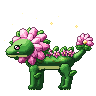
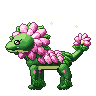
Estudio: Robledor con silueta de coloso (gorila de corteza) y Floraxia con capa de pétalos
Claude-Session: https://claude.ai/code/session_01CbjX1Jp4CqY9crVcrZtYX4

Changed region(s): [[0.0312, 0.2188, 1.0, 0.9375], [0.2812, 0.9062, 0.3125, 0.9375]]

diff --git a/estudio/robledor/robledor.py b/estudio/robledor/robledor.py
@@ -1,8 +1,9 @@
 """Robledor (planta/roca): forma final de Hojardo por el camino del combate cercano.
 «Un coloso de corteza y piedra. Se planta firme en el suelo y golpea con la fuerza de un roble centenario.»
-En dos patas, enorme: piernas como troncos con raíces que se agarran al suelo, torso acorazado de corteza
-(con vetas) y placas de piedra con musgo, brazos fuertes con puños de piedra, la cabeza de geco de la familia
-(verde, con la cresta de hojas) y, en la espalda, el brote de Semillín convertido en un árbol."""
+Un coloso con silueta de gorila de corteza: enorme masa de hombros, espalda encorvada, brazos gigantes que
+llegan al suelo y se apoyan en puños de piedra (plantado firme), piernas cortas como troncos con raíces,
+rocas con musgo y hongos en los hombros, enredaderas que cuelgan, la cabeza de geco de la familia baja entre
+los hombros y, en la espalda, el brote de Semillín convertido en un bosquecito."""
 import math, os, sys
 sys.path.insert(0, os.path.join(os.path.dirname(os.path.abspath(__file__)), '..'))
 import numpy as np
@@ -46,58 +47,67 @@ def stone(moss_top=None):
 
 def build(P):
     motor.tamano(96)
-    c = Lienzo(RAMP, P, S=0.98 * 1.2, OX=40, OY=75, CX=46, CY=90, outline='#0e0806', mid=MID, span=SPAN)
+    c = Lienzo(RAMP, P, S=1.0 * 1.2, OX=40, OY=75, CX=47, CY=90, outline='#0e0806', mid=MID, span=SPAN)
     f = P['fl']; sw = math.sin(f * 1.3) * 0.8
-    # ---- árbol en la espalda (el brote de Semillín creció) ----
-    c.local(rot=sw * 0.02, piv=(50, 34))
-    c.parte(c.caps([(49, 34), (51, 24), (53, 15)], [3.0, 2.4, 1.8]) | c.caps([(51.5, 22), (57, 17)], [1.4, 0.8]), bark(0.2, 2.6), R=2.5)
-    for i, (x, y, rx, ry) in enumerate([(53, 10, 7, 5.5), (46.5, 13, 5.5, 4.5), (59.5, 14, 5.5, 4.5), (52, 5.5, 5, 4)]):
-        c.parte(c.ell(x + sw * 0.3, y, rx, ry), lambda X, Y: np.where(((X * 0.9 + Y * 1.3) % 3.6) < 0.6, 'vein', 'leaf').astype(object),
-                R=4, bias=0.05 if i % 2 else -0.04, outline='#123a14')
+    leafy = lambda X, Y: np.where(((X * 0.9 + Y * 1.3) % 3.6) < 0.6, 'vein', 'leaf').astype(object)
+    # ---- bosquecito en la espalda ----
+    c.local(rot=sw * 0.015, piv=(47, 26))
+    c.parte(c.caps([(46, 27), (47.5, 19), (49, 13)], [3.4, 2.6, 2.0]) | c.caps([(47.5, 17), (54, 12.5)], [1.6, 0.9]) | c.caps([(47, 20), (41, 15)], [1.4, 0.8]),
+            bark(0.2, 2.6), R=2.5)
+    for i, (x, y, rx, ry) in enumerate([(49, 10, 8, 5.5), (40, 13, 6, 4.5), (57.5, 12.5, 6.5, 4.8), (45, 6.5, 5.5, 3.6), (54, 7, 5, 3.4), (63, 16.5, 4.5, 3.6)]):
+        c.parte(c.ell(x + sw * 0.3, y, rx, ry), leafy, R=4, bias=0.05 if i % 2 else -0.04, outline='#123a14')
     c.local()
-    # ---- pierna lejana: tronco con raíces ----
-    legF = c.caps([(47, 53), (50, 62), (50.5, 69.5)], [5.6, 4.8, 4.8])
-    for dx, dy in [(-4.5, 2.5), (-1.5, 3.2), (2.5, 3), (5, 2)]:
-        legF |= c.caps([(50.5, 69.5), (50.5 + dx, 72 + dy * 0.4)], [2.2, 1.0])
+    # ---- pierna lejana: tronco corto con raíces ----
+    legF = c.caps([(49, 57), (51, 64), (51, 69.5)], [6, 5.4, 5.4])
+    for dx, dy in [(-4.5, 2.5), (-1.5, 3.2), (2.5, 3), (5.5, 2)]:
+        legF |= c.caps([(51, 69.5), (51 + dx, 72 + dy * 0.4)], [2.2, 1.0])
     c.parte(legF, bark(0.1), R=4, bias=-0.3, far=True)
-    # ---- brazo lejano ----
-    c.parte(c.caps([(45, 30), (47, 40), (43, 48)], [4.5, 4, 3.6]), 'skin', R=3.5, bias=-0.3, far=True)
-    c.parte(c.ell(42, 50, 4.4, 4.2), stone(), R=3, bias=-0.3, far=True, outline='#0e0e10')
-    # ---- torso enorme de corteza ----
-    torso = c.ell(41, 39, 15, 13) | c.ell(42, 50, 13, 7)
-    c.parte(torso, bark(0.05, 3.4, moss_top=28), R=10)
-    # placa de piedra en el pecho, con musgo arriba
-    c.parte(c.poly([(28, 36), (33, 32.5), (38.5, 33.5), (40, 40), (37, 46.5), (31, 47), (27.5, 42)]), stone(moss_top=34.5), R=4, outline='#0e0e10')
+    # ---- brazo lejano: llega al suelo ----
+    c.parte(c.caps([(45, 33), (48, 45), (46, 56)], [6, 5.2, 4.8]), bark(0.4, 3.0), R=4, bias=-0.15, far=True)
+    c.parte(c.caps([(46.5, 56), (45.5, 63.5)], [4.6, 4.8]) | c.ell(45, 67, 5.0, 4.2), stone(), R=3.5, bias=-0.3, far=True, outline='#0e0e10')
+    # ---- torso: gran masa de hombros, encorvado ----
+    torso = c.ell(38, 37, 16, 13) | c.ell(43, 51, 11.5, 8.5) | c.ell(30, 40, 9, 10)
+    c.parte(torso, bark(0.05, 3.4, moss_top=27.5), R=11, bias=-0.12)
     # ---- pierna cercana ----
-    legN = c.caps([(36, 54), (33, 62.5), (32.5, 69.5)], [6.2, 5.2, 5.2])
-    for dx, dy in [(-5.5, 2.5), (-2.5, 3.4), (1.5, 3.2), (4.5, 2.2)]:
-        legN |= c.caps([(32.5, 69.5), (32.5 + dx, 72 + dy * 0.4)], [2.4, 1.1])
+    legN = c.caps([(37, 58), (35, 64.5), (35, 69.5)], [6.6, 5.8, 5.8])
+    for dx, dy in [(-5.5, 2.5), (-2.5, 3.4), (1.5, 3.2), (5, 2.2)]:
+        legN |= c.caps([(35, 69.5), (35 + dx, 72 + dy * 0.4)], [2.4, 1.1])
     c.parte(legN, bark(0.1), R=4, bias=0.06)
-    c.parte(c.poly([(28.5, 59.5), (32.5, 57.5), (37, 59), (36, 63), (29.5, 63.5)]), stone(moss_top=59.6), R=3, outline='#0e0e10')   # rodillera
-    # ---- brazo cercano con puño de piedra ----
-    c.parte(c.caps([(33, 31), (28.5, 40), (25.5, 46.5)], [5.2, 4.6, 4.2]), 'skin', R=4)
-    c.parte(c.poly([(26.5, 28.5), (30, 25.5), (37, 26), (39, 30.5), (36, 34), (29, 34)]), stone(moss_top=27.6), R=4, outline='#0e0e10')   # hombrera
-    c.parte(c.ell(24.5, 50.5, 5.0, 4.6), stone(), R=3.5, outline='#0e0e10')
-    # ---- cabeza de geco de la familia, más grande y seria ----
-    c.local(dx=5, dy=P['head'] + 2)
-    head = c.ell(25.5, 21.5, 10.6, 9, -0.05) | c.ell(16, 24.8, 6.8, 5.4, -0.05)
+    # ---- rocas con musgo en los hombros, con hongos ----
+    for (x, y, rx, ry) in [(46, 27.5, 6, 3.8), (52.5, 31, 4.6, 3.2)]:
+        c.parte(c.ell(x, y, rx, ry), stone(moss_top=y - ry * 0.25), R=3.5, outline='#0e0e10')
+    for (x, y) in [(49.5, 24.5), (51.5, 25.3), (54, 28.6)]:
+        c.parte(c.caps([(x, y + 1.6), (x, y)], [0.5, 0.5]) | c.ell(x, y - 0.4, 1.4, 0.9), lambda X, Y: np.where(Y < y - 0.2, 'petal' if 'petal' in RAMP else 'moss', 'belly').astype(object), R=1, outline='#3a1a10')
+    # ---- brazo cercano: enorme, apoyado en el puño de piedra ----
+    def arm_mat(X, Y):
+        m = np.full(X.shape, 'bark', object)                 # brazo de corteza clara, con musgo arriba y vetas
+        m[((X * 0.9 + Y * 0.45 + np.sin(Y * 0.5)) % 3.0) < 0.65] = 'barkd'
+        m[(Y < 38 + np.sin(X * 1.4) * 1.2)] = 'moss'
+        return m
+    c.parte(c.caps([(31, 33), (26, 45), (23.5, 56)], [7, 6, 5.4]), arm_mat, R=5, bias=0.2)
+    c.parte(c.caps([(23.5, 55), (22.5, 63)], [5.0, 5.2]) | c.ell(21.5, 67, 5.4, 4.4), stone(), R=4, outline='#0e0e10')
+    # enredaderas que cuelgan del brazo
+    for (x0, y0, L) in [(26.5, 47, 9), (21, 50, 6)]:
+        c.parte(c.caps([(x0, y0), (x0 - 0.8 + sw * 0.3, y0 + L * 0.5), (x0 + 0.4 + sw * 0.5, y0 + L)], [0.8, 0.7, 0.6]), 'stem', R=1)
+        hoja(c, (x0 + 0.4 + sw * 0.5, y0 + L), (x0 + 3.5, y0 + L + 2.5), 1.4)
+    # ---- cabeza baja, entre los hombros ----
+    c.local(dx=4, dy=P['head'] + 6, sc=0.86, piv=(25, 24))
+    head = c.ell(25.5, 21.5, 9.6, 8.2, -0.05) | c.ell(16.5, 24.5, 6.4, 5, -0.05)
     c.parte(head, lambda X, Y: np.where(Y > 27.4 + (X - 14) * 0.05, 'belly', 'skin').astype(object), R=6, bias=0.04)
-    hoja(c, (27.5, 15), (39, 6.5), 3.2, shade=0.04)
-    hoja(c, (29.5, 16), (40.5, 12), 2.8, shade=-0.05)
+    hoja(c, (27.5, 15), (37, 9), 2.8, shade=0.04)
     c.local()
     c.render()
     # ---- detalles ----
-    c.local(dx=5, dy=P['head'] + 2)
+    c.local(dx=4, dy=P['head'] + 6, sc=0.86, piv=(25, 24))
     K = {'k': '#081a0a', 'W': '#fff8d0', 'g': '#6a4a10', 'G': '#d8b040'}
     if P['blink']:
         c.patron(18.4, 20, ['', 'kkkkkk'], K)
     else:   # ojo serio, iris ámbar como savia
         c.patron(18.4, 20, ['kkkkkkk', 'kWgGGk.', '.kkkk..'], K)
-    for dx in range(-1, 8): c.putd(18.4 + dx * 0.85, 19.2 - (dx > 2) * 0.8, '#0a2218')     # ceja firme
+    for dx in range(-1, 8): c.putd(18.4 + dx * 0.85, 19.2 - (dx > 2) * 0.8, '#0a2218')
     c.linea_d([(11, 26.4), (14, 27.2), (17, 27.5), (20, 27.2)], '#0a2218')
     c.local()
-    # hojitas que caen del árbol
-    for i, (x, y) in enumerate([(62, 22), (44, 24), (66, 32)]):
+    for i, (x, y) in enumerate([(66, 22), (36, 18), (70, 32)]):           # hojitas que caen del bosquecito
         X, Y = (int(v) for v in c.tp(x + math.sin(f + i) * 1.5, y + (f * 2 + i * 3) % 8))
         c.put(X, Y, '#74d050'); c.put(X + 1, Y, '#48a83a')
     return c

diff --git a/estudio/floraxia/floraxia.py b/estudio/floraxia/floraxia.py
@@ -49,10 +49,16 @@ def petalo_r(c, cx, cy, ang, dist, rl, rw, mat, shade=0.0):
 
 def paw(c, pts, rr, foot, far):
     m = c.caps(pts, rr) | c.ell(*foot)
-    c.parte(m, 'skin', R=2.5, bias=-0.3 if far else 0.0, far=far)
-    (ex, ey) = pts[1]
-    if not far:                                                 # hojita en el codo, hacia atrás
-        hoja(c, (ex, ey - 1), (ex + 5, ey - 3.5), 1.4)
+    (sx, sy) = pts[0]
+
+    def mat(X, Y):
+        mm = np.full(X.shape, 'skin', object)
+        mm[np.hypot((X - sx) * 1.3, Y - sy - 2.5) < 1.5] = 'petal'         # mancha en forma de pétalo
+        return mm
+    c.parte(m, mat, R=2.5, bias=-0.3 if far else 0.0, far=far)
+    ax, ay = pts[-1]
+    for dx in ((0.6, 2.6), (-0.4, 0.8)) if not far else ((0.6, 2.4),):      # hojas que cuelgan en el tobillo
+        hoja(c, (ax + dx[0], ay - 4.2), (ax + dx[1] + 1.4, ay + 0.8), 1.3, far=far)
 
 
 def build(P):
@@ -61,10 +67,10 @@ def build(P):
                glow=('pollen',), glow_rad={'pollen': (0, 3)}, lit={})
     f = P['fl']; sw = math.sin(f * 1.2)
     # ---- patas lejanas ----
-    paw(c, [(52, 56), (55.5, 63), (54, 70.8)], [3.6, 2.4, 2.1], (53, 72.7, 3.2, 1.6), True)
-    paw(c, [(34, 57), (34.5, 64.5), (34, 70.8)], [3.2, 2.3, 2.0], (33, 72.7, 3.1, 1.6), True)
+    paw(c, [(51, 56), (54.5, 63), (53, 70.8)], [3.4, 2.2, 1.8], (52, 72.7, 3.0, 1.5), True)
+    paw(c, [(34, 57), (34.5, 64.5), (34, 70.8)], [3.0, 2.0, 1.7], (33, 72.7, 2.9, 1.5), True)
     # ---- cola larga que termina en flor ----
-    c.local(rot=P['tail'], piv=(59, 50))
+    c.local(rot=P['tail'], piv=(57, 50), dx=-2)
     c.parte(c.caps([(58, 50), (65, 47.5), (70, 42.5), (71.5, 37)], [3.4, 2.6, 2.0, 1.6]), 'skin', R=3)
     for (bx, by, tx, ty) in [(70.5, 39, 76, 40.5), (70, 40, 64.5, 39)]:
         hoja(c, (bx, by), (tx, ty), 1.7)
@@ -73,7 +79,7 @@ def build(P):
     c.parte(c.ell(71.5, 35, 1.6, 1.5), 'pollen', R=1.5, outline='#6a4a10')
     c.local()
     # ---- cuerpo ----
-    body = c.ell(32, 50.5, 9, 8) | c.ell(44, 51.5, 12, 6.4) | c.ell(55, 50.5, 7.5, 7)
+    body = c.ell(32, 50.5, 9, 8) | c.ell(43, 51.5, 10.5, 6.4) | c.ell(53, 50.5, 7.5, 7) | c.ell(27, 43, 6, 8, 0.35)   # cuello más alto
     def body_mat(X, Y):
         m = np.where(Y > 55.2 + (X - 40) ** 2 * 0.002, 'belly', 'skin').astype(object)
         vy = 50.5 + np.sin(X * 0.42) * 1.6                       # enredadera dibujada en el costado
@@ -83,18 +89,18 @@ def build(P):
             m[np.hypot((X - lx - 1.2) * 0.8, Y - ly + 1.1) < 1.0] = 'leaf'
         return m
     c.parte(body, body_mat, R=8)
-    # florecitas a lo largo del lomo
-    for i, (bx, by, tx, ty) in enumerate([(38, 45.5), (45, 45.6), (51.5, 45.2), (57, 44.6)] and [(38, 45.5, 41, 39), (45, 45.6, 48.5, 39.5), (51.5, 45.2, 55.5, 39.5), (57, 44.6, 61.5, 40)]):
-        hoja(c, (bx, by), (tx, ty), 1.8, shade=0.03)
-    for i, (x, y) in enumerate([(36.5, 45), (41.5, 44.6), (48, 45), (54.5, 44.2), (59.5, 44.6)]):
-        for k in range(5):
-            petalo_r(c, x, y, -90 + k * 72 + i * 20, 1.6, 1.5, 1.0, 'petal', shade=0.04)
-        c.parte(c.ell(x, y, 0.8, 0.8), 'pollen', R=1)
+    # capa de pétalos que cae desde la melena por el lomo y se vuelve hojas hacia la cadera
+    for row, (x0, n, size, mat) in enumerate([(33, 3, 1.0, 'petal'), (38.5, 3, 0.9, 'petal2'), (44, 3, 0.8, 'petal'), (49.5, 3, 0.7, 'petal2')]):
+        for k in range(n):
+            y = 44.5 + k * 2.6; x = x0 + k * 1.2
+            petalo_r(c, x, y, 28 + k * 12 + sw * 2, 0, 4.6 * size, 2.6 * size, mat, shade=0.05 if (row + k) % 2 else -0.03)
+    for k, (bx, by, tx, ty) in enumerate([(54, 45, 60.5, 47.5), (54.5, 47.5, 60, 51.5), (53.5, 50, 58, 55)]):
+        hoja(c, (bx, by), (tx + sw * 0.3, ty), 1.9, shade=0.03 if k % 2 else -0.03)
     # ---- patas cercanas ----
-    paw(c, [(55, 57), (58.5, 63.5), (57, 70.8)], [4.0, 2.7, 2.3], (56, 72.7, 3.5, 1.7), False)
-    paw(c, [(29.5, 57.5), (29.5, 65), (29, 70.8)], [3.6, 2.5, 2.2], (28, 72.7, 3.4, 1.7), False)
+    paw(c, [(54, 57), (57.5, 63.5), (56, 70.8)], [3.8, 2.5, 2.0], (55, 72.7, 3.3, 1.6), False)
+    paw(c, [(29.5, 57.5), (29.5, 65), (29, 70.8)], [3.4, 2.2, 1.9], (28, 72.7, 3.1, 1.6), False)
     # ---- melena de pétalos alrededor de la cabeza (dos capas) ----
-    c.local(dy=P['head'], rot=sw * 0.015, piv=(25, 38))
+    c.local(dy=P['head'] - 4, rot=sw * 0.015, piv=(25, 38))
     for k in range(9):                                      # hojas verdes detrás de los pétalos (follaje)
         a = math.radians(-170 + k * 38 + sw * 2)
         hoja(c, (26 + math.cos(a) * 6, 38.5 + math.sin(a) * 6), (26 + math.cos(a) * 17, 38.5 + math.sin(a) * 15), 2.6, shade=0.04 if k % 2 else -0.05)
@@ -104,13 +110,13 @@ def build(P):
         petalo_r(c, 26, 38.5, -140 + k * 50, 5.5, 4.6, 2.8, 'petal2', shade=0.03)
     c.local()
     # ---- cabeza de la familia, en alto ----
-    c.local(dy=P['head'])
+    c.local(dy=P['head'] - 4)
     head = c.ell(20, 40, 9.2, 7.8, -0.05) | c.ell(12, 43, 5.8, 4.6, -0.05)
     c.parte(head, lambda X, Y: np.where(Y > 45.6 + (X - 10) * 0.05, 'belly', 'skin').astype(object), R=6, bias=0.05)
     c.local()
     c.render()
     # ---- detalles ----
-    c.local(dy=P['head'])
+    c.local(dy=P['head'] - 4)
     K = {'k': '#081a0a', 'W': '#ffffff', 'p': '#b4508a', 'P': '#ffaad4'}
     if P['blink']:
         ex, ey = c.patron(12.6, 37.8, ['', '', 'k....k', '.kkkk.'], K)
@@ -120,7 +126,7 @@ def build(P):
     c.linea_d([(7.2, 44.8), (9.8, 45.6), (12.6, 45.8), (14.8, 45.1), (16, 44.2)], '#0e2a14')     # sonrisa suave
     for x, y in [(15.2, 43.8), (16.6, 43.8)]: c.putd(x, y, '#f4a0c0')
     c.local()
-    for x in (26, 28, 30, 54, 56, 58): c.putd(x, 74.4, '#a4e080')
+    for x in (26, 28, 30, 53, 55, 57): c.putd(x, 74.4, '#a4e080')
     # polen que brilla y flota: el aroma que calma la mente
     for i, (x, y) in enumerate([(10, 22), (30, 18), (44, 24), (6, 34), (40, 38), (20, 14), (64, 26), (48, 14)]):
         yy = y - (f * 1.8 + i * 1.3) % 5
